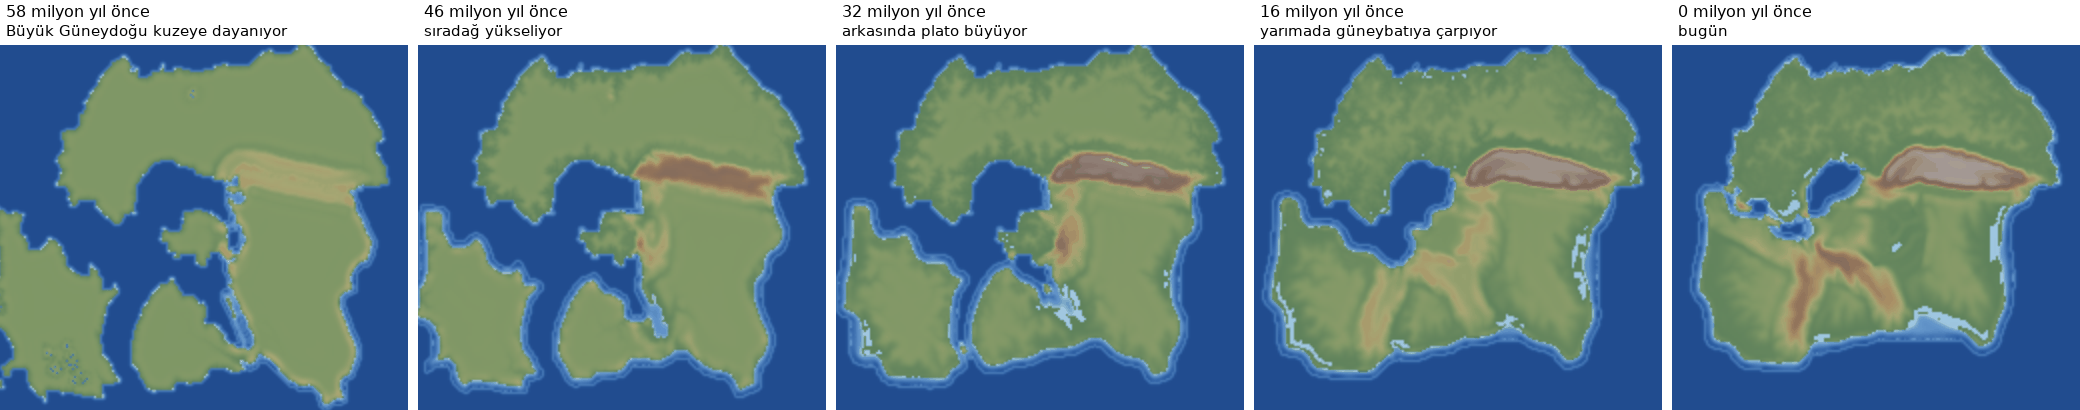
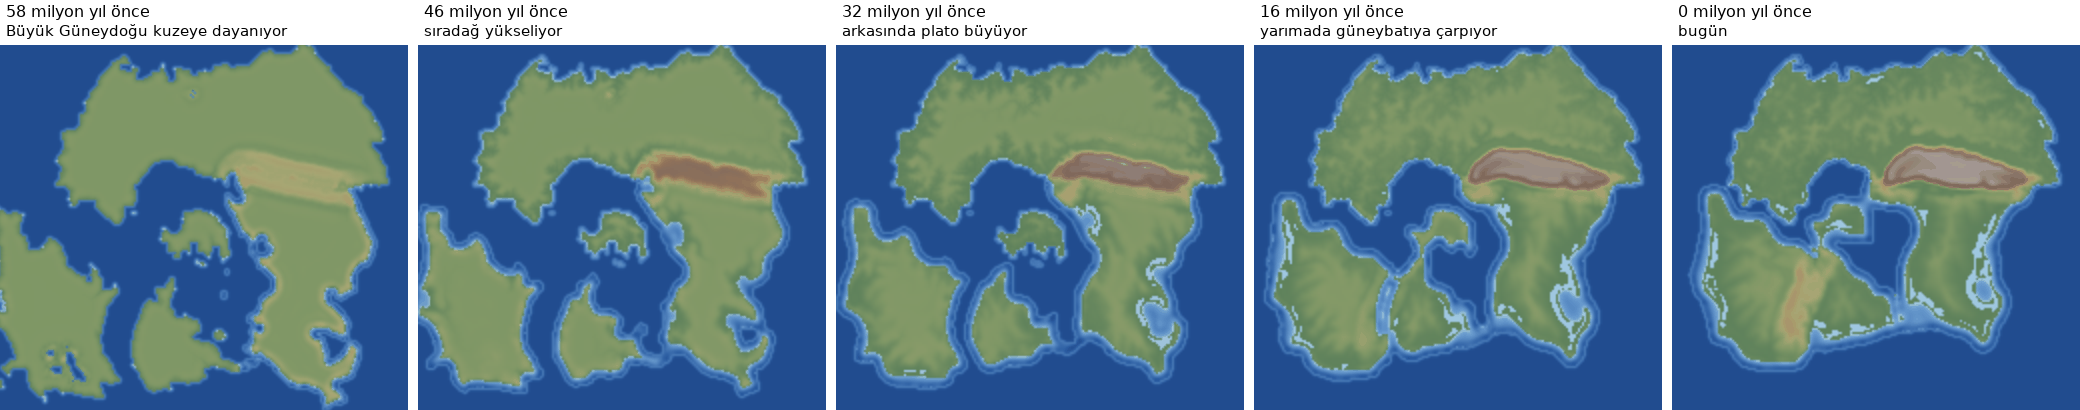
Kıta laboratuvarı: iç deniz ve mikro kıta korunuyor (IoU 0,84)
Claude-Session: https://claude.ai/code/session_01TrTgWsQ7k9npTcPJkL6aYQ

diff --git a/deneyler/SONUCLAR.md b/deneyler/SONUCLAR.md
@@ -268,3 +268,4 @@ Eklenenler: orografik yağış (levha_model.yagis_alani, aşınma yağışla top
 - İlk koşular: güneydoğu bloğu kuzeye ulaşmadı. Nedenler: (1) güney kenara taşan blok kenar sıfırlamasıyla kenara çakılı kaldı (düzeltme: geniş alan, kenardan okyanus girer); (2) katı geri sürmede çarpışma sonrası itme (yaklaşık 1300 km) çarpışma anında bir boşluk olarak görünüyor; temas ancak bugüne yakın oluyordu (IoU 0,81, en yüksek 2372 m).
 - "Büyük" blok uzantısı: çarpışma sonrası itmenin süpürdüğü koridor (bugünkü konumdan çarpışma anındaki konuma kadar) bloğun önüne kıta olarak eklenir ve çarpışma öncesi hareketle başlangıca taşınır (Büyük Hindistan kavramı). Sonuç: temas yaklaşık 58 Ma; 46 Ma sahibin kırmızı sıradağının yerinde kuşak; 32 Ma arkasında plato; 16 Ma yarımada güneybatıya çarpıp kökünde kuşak (Alp türü); bugün kuzeydoğuda yaklaşık 5 km plato ve sıradağ, güneybatıda kuşak. En yüksek 5117 m, en kalın kabuk 67,7 km, maske örtüşmesi (IoU) 0,81.
 - Kusurlar: iç deniz büyük ölçüde kapandı ve mikro kıta kıtalara kaynaştı (bloklar deforme olup yayıldıkça iç deniz doluyor); kıyılar maskeyle yalnız %81 örtüşüyor; 45 km çözünürlük.
+- İç deniz: dikiş kapanmasını 60 km'lik şeritlerle sınırlamak değiştirmedi (IoU 0,81). Asıl neden "Büyük" uzantının bloğun tamamının koridoru olması: iç denize bakan yanın önüne eklenen kabuk hiçbir şeye çarpmadan iç denizde kara kalıyordu. Uzantı, katı ileri harekette bugün başka bir bloğun karasına denk gelen koridor hücreleriyle sınırlandı (Güneydoğu 18 034, Yarımada 1501 nokta). Sonuç: iç deniz ve mikro kıta korunuyor, IoU 0,84, en yüksek 5209 m, kabuk 67,6 km. Kalan kusur: güneydoğu bloğunun batı kıyısında ve mikro kıta çevresinde düz çizgili yapay kenarlar.

diff --git a/deneyler/GECE_PLANI.md b/deneyler/GECE_PLANI.md
@@ -44,3 +44,4 @@ arkasında plato büyür, önünde çökme havzası (ova) oluşur; nehirler ve a
 - Sırada: sahibin kıtasına uygulama (güneydoğu bloğu kuzeye; başlangıç konumları tarih üreticisinin geri sürmesinden), maske ile son durum farkının ölçülmesi.
 - Sahibin kıtası: Büyük Güneydoğu uzantısıyla zincir tamamlandı (58 Ma temas, sıradağ, plato, yarımada çarpışması); IoU 0,81. Görseller cikti/ornek_kita_lab_kareler.png, cikti/ornek_kita_lab_son.png, cikti/ornek_kita_lab.gif.
 - Sırada: iç denizin korunması (okyanus kabuğu bölgelerinin daha dayanıklı olması ya da maskeye çekme), mikro kıtanın ayrı kalması, daha ince çözünürlük.
+- İç deniz korundu (uzantı yalnız tükenecek önle sınırlı); IoU 0,84. Sırada: düz çizgili yapay kenarların nedeni, çözünürlük, mikro kıtanın sıkışma tarihine göre dağlanması.
